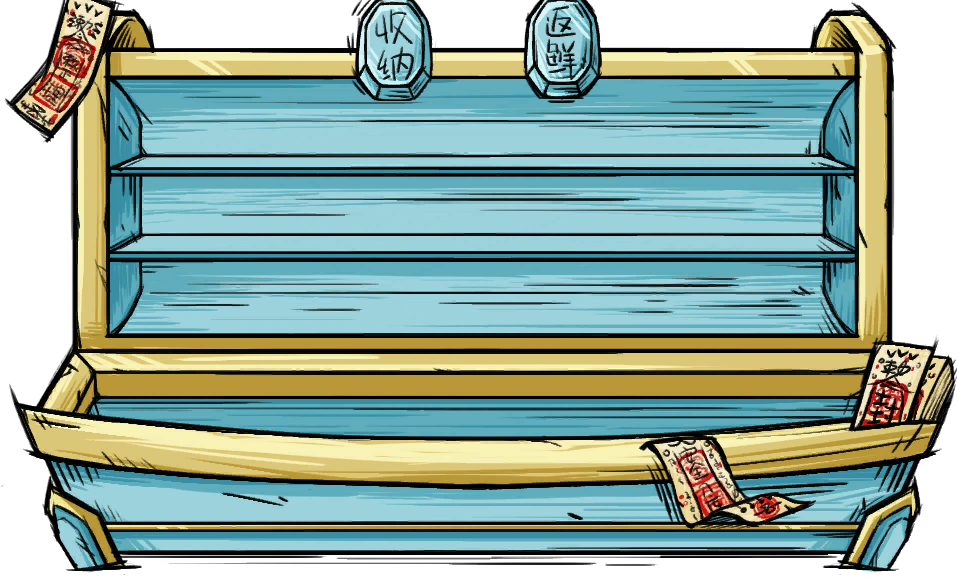
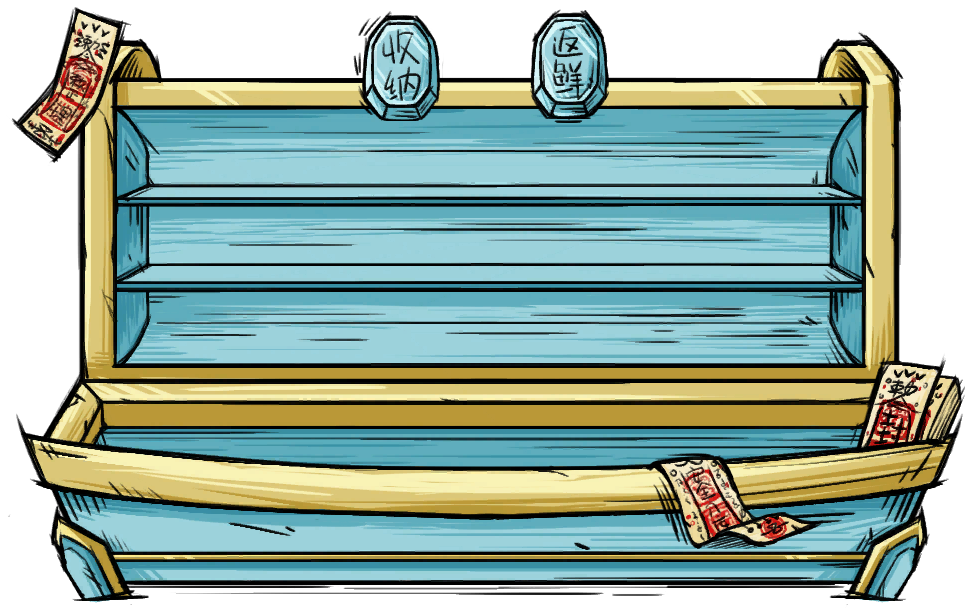
内容：纳物箱按钮整组再上移 10 像素（累计 30px），画布同步向上扩
陛下：「再往上 10 个像素」。上一次已经贴到面板上沿，所以这次除了整组上移，
还改了合成逻辑，保证按钮不被裁：

- GROUP_NUDGE (0,-20) → (0,-30)，整组上移（平移量 x −1.5、y +36）
- compose_box_ui.py 的画布改成「面板 ∪ 全部按钮」的外包矩形 + 6px 留白：
  按钮被挪到面板边界之外时**不裁掉**，而是把画布向外扩（本次 957×578 → 971×614，
  面板左上角落在画布 (7,30)）—— 以前是把按钮裁掉，这次不会了
- 结果：5 个按钮完整，位置整体上移，相对关系不变

预览已确认给到新图（200，228588 字节）。校验：无错误、无失败项。

diff --git a/tools/compose_box_ui.py b/tools/compose_box_ui.py
@@ -4,7 +4,7 @@
 为什么要合成：按钮在游戏里是**独立的 UI 贴图**（来自 images/ethereal_realm_ui 图集），
 不属于箱体的动画帧，所以单独导出的箱体 UI 上没有按钮。
 
-## 坐标怎么来的（踩过三次坑，别改回去）
+## 坐标怎么来的（踩过坑，别改回去）
 
 mod 源码 `lj_mod/scripts/main/ui/containers.lua`：
     · 容器面板 widget.pos = (0, 250)；槽位 11×3 行 + 1 行 10 格：
@@ -21,9 +21,12 @@ mod 源码 `lj_mod/scripts/main/ui/containers.lua`：
 反推依据：按这个映射，4 行槽位落在图上 y = 95 / 175 / 255 / 340，
 跟箱子图上三层架子的实际位置（≈100 / 180 / 255）完全对得上 —— 槽位必须摆在架子上。
 
-**整组平移**：映射出来后有按钮会压在面板上沿之外（游戏里不裁剪，但插图里露出来不好看），
-所以最后把**整组**按最小位移平移一次，让 5 个按钮全部落进面板内、且保留源码里的相对布局
-（绝不单独挪某一个）。平移量在下面打印出来，方便核对。
+**整组平移**：映射出来后有按钮压在面板上沿之外，所以把**整组**平移一次
+（水平居中、竖直按需下移），保留源码里的相对布局，绝不单独挪某一个。
+用户之后可以再用 GROUP_NUDGE 整组微调（正数 = 往右下）。
+
+**画布会向外扩**：整组挪到面板边界之外时，不是裁掉按钮，而是把画布扩到刚好包住
+面板 + 全部按钮 —— 保证插图里按钮永远完整。
 
 用法：
     python tools/compose_box_ui.py [面板图] [按钮目录] [输出]
@@ -41,7 +44,8 @@ OUT = os.path.join(ROOT, "images", "lingjie", "anim", "huangjie_box_ui.png")
 PANEL_POS_Y = 250             # 面板上沿对应的控件 y（见文件头推导）
 MARGIN = 6                    # 整组平移后，按钮离面板边缘至少留这么多像素
 # 自动平移之后，用户再要求的**整组**微调（正数 = 往右下）。依旧是整组动，不单独挪。
-GROUP_NUDGE = (0, -20)
+GROUP_NUDGE = (0, -30)
+PAD = 6                       # 画布向外扩时四周留的白
 BUTTONS_LIST = [
     ("lj_huangjie_box_sort_normal.png", -415, 230),    # 整理
     ("lj_huangjie_box_collect.png", -85, 250),         # 收纳
@@ -72,8 +76,8 @@ def main():
         sprites.append((Image.open(path).convert("RGBA"), to_px(ux, uy), name))
 
     # 整组平移（绝不单独挪某一个）：
-    #   水平 —— 整组居中。源码里按钮本来就是以面板中心对称排布的（如收纳 -85 / 返鲜 +85）。
-    #   竖直 —— 整组下移，刚好让包围盒不超出面板上下边。
+    #   水平 —— 整组居中；源码里按钮本来就以面板中心对称排布（收纳 -85 / 返鲜 +85）。
+    #   竖直 —— 先按需下移让包围盒不超过面板，再叠加用户的人工微调。
     boxes = [(px - img.width / 2, py - img.height / 2, px + img.width / 2, py + img.height / 2)
              for img, (px, py), _ in sprites]
     left = min(b[0] for b in boxes)
@@ -87,17 +91,27 @@ def main():
     if bottom + shift_y > H - MARGIN:
         shift_y -= bottom + shift_y - (H - MARGIN)
     shift_y += GROUP_NUDGE[1]
-    print("整组平移：x %+.1f  y %+.0f（面板 %dx%d，按钮包围盒 x %.0f~%.0f  y %.0f~%.0f；含人工微调 %s）"
+    print("整组平移：x %+.1f  y %+.0f（面板 %dx%d，按钮包围盒 x %.0f~%.0f  y %.0f~%.0f；人工微调 %s）"
           % (shift_x, shift_y, W, H, left, right, top, bottom, GROUP_NUDGE))
 
-    for img, (px, py), name in sprites:
-        nx = px + shift_x
-        ny = py + shift_y
-        panel.alpha_composite(img, (int(round(nx - img.width / 2)), int(round(ny - img.height / 2))))
-        print("  %-34s 中心=(%d,%d)" % (name, round(nx), round(ny)))
+    placed = [(img, px + shift_x, py + shift_y, name) for img, (px, py), name in sprites]
 
-    panel.save(out)
-    print("已合成 -> %s (%dx%d)" % (out, W, H))
+    # 画布向外扩到刚好包住「面板 + 全部按钮」，避免把按钮裁掉
+    xs = [0, W] + [px - img.width / 2 for img, px, _, _ in placed] + [px + img.width / 2 for img, px, _, _ in placed]
+    ys = [0, H] + [py - img.height / 2 for img, _, py, _ in placed] + [py + img.height / 2 for img, _, py, _ in placed]
+    min_x, max_x = min(xs) - PAD, max(xs) + PAD
+    min_y, max_y = min(ys) - PAD, max(ys) + PAD
+    CW, CH = int(round(max_x - min_x)), int(round(max_y - min_y))
+    print("画布 %dx%d（面板左上角落在 (%d,%d)）" % (CW, CH, round(-min_x), round(-min_y)))
+
+    canvas = Image.new("RGBA", (CW, CH), (0, 0, 0, 0))
+    canvas.alpha_composite(panel, (int(round(-min_x)), int(round(-min_y))))
+    for img, px, py, name in placed:
+        canvas.alpha_composite(img, (int(round(px - min_x - img.width / 2)), int(round(py - min_y - img.height / 2))))
+        print("  %-34s 中心=(%d,%d)" % (name, round(px - min_x), round(py - min_y)))
+
+    canvas.save(out)
+    print("已合成 -> %s (%dx%d)" % (out, CW, CH))
 
 
 if __name__ == "__main__":
